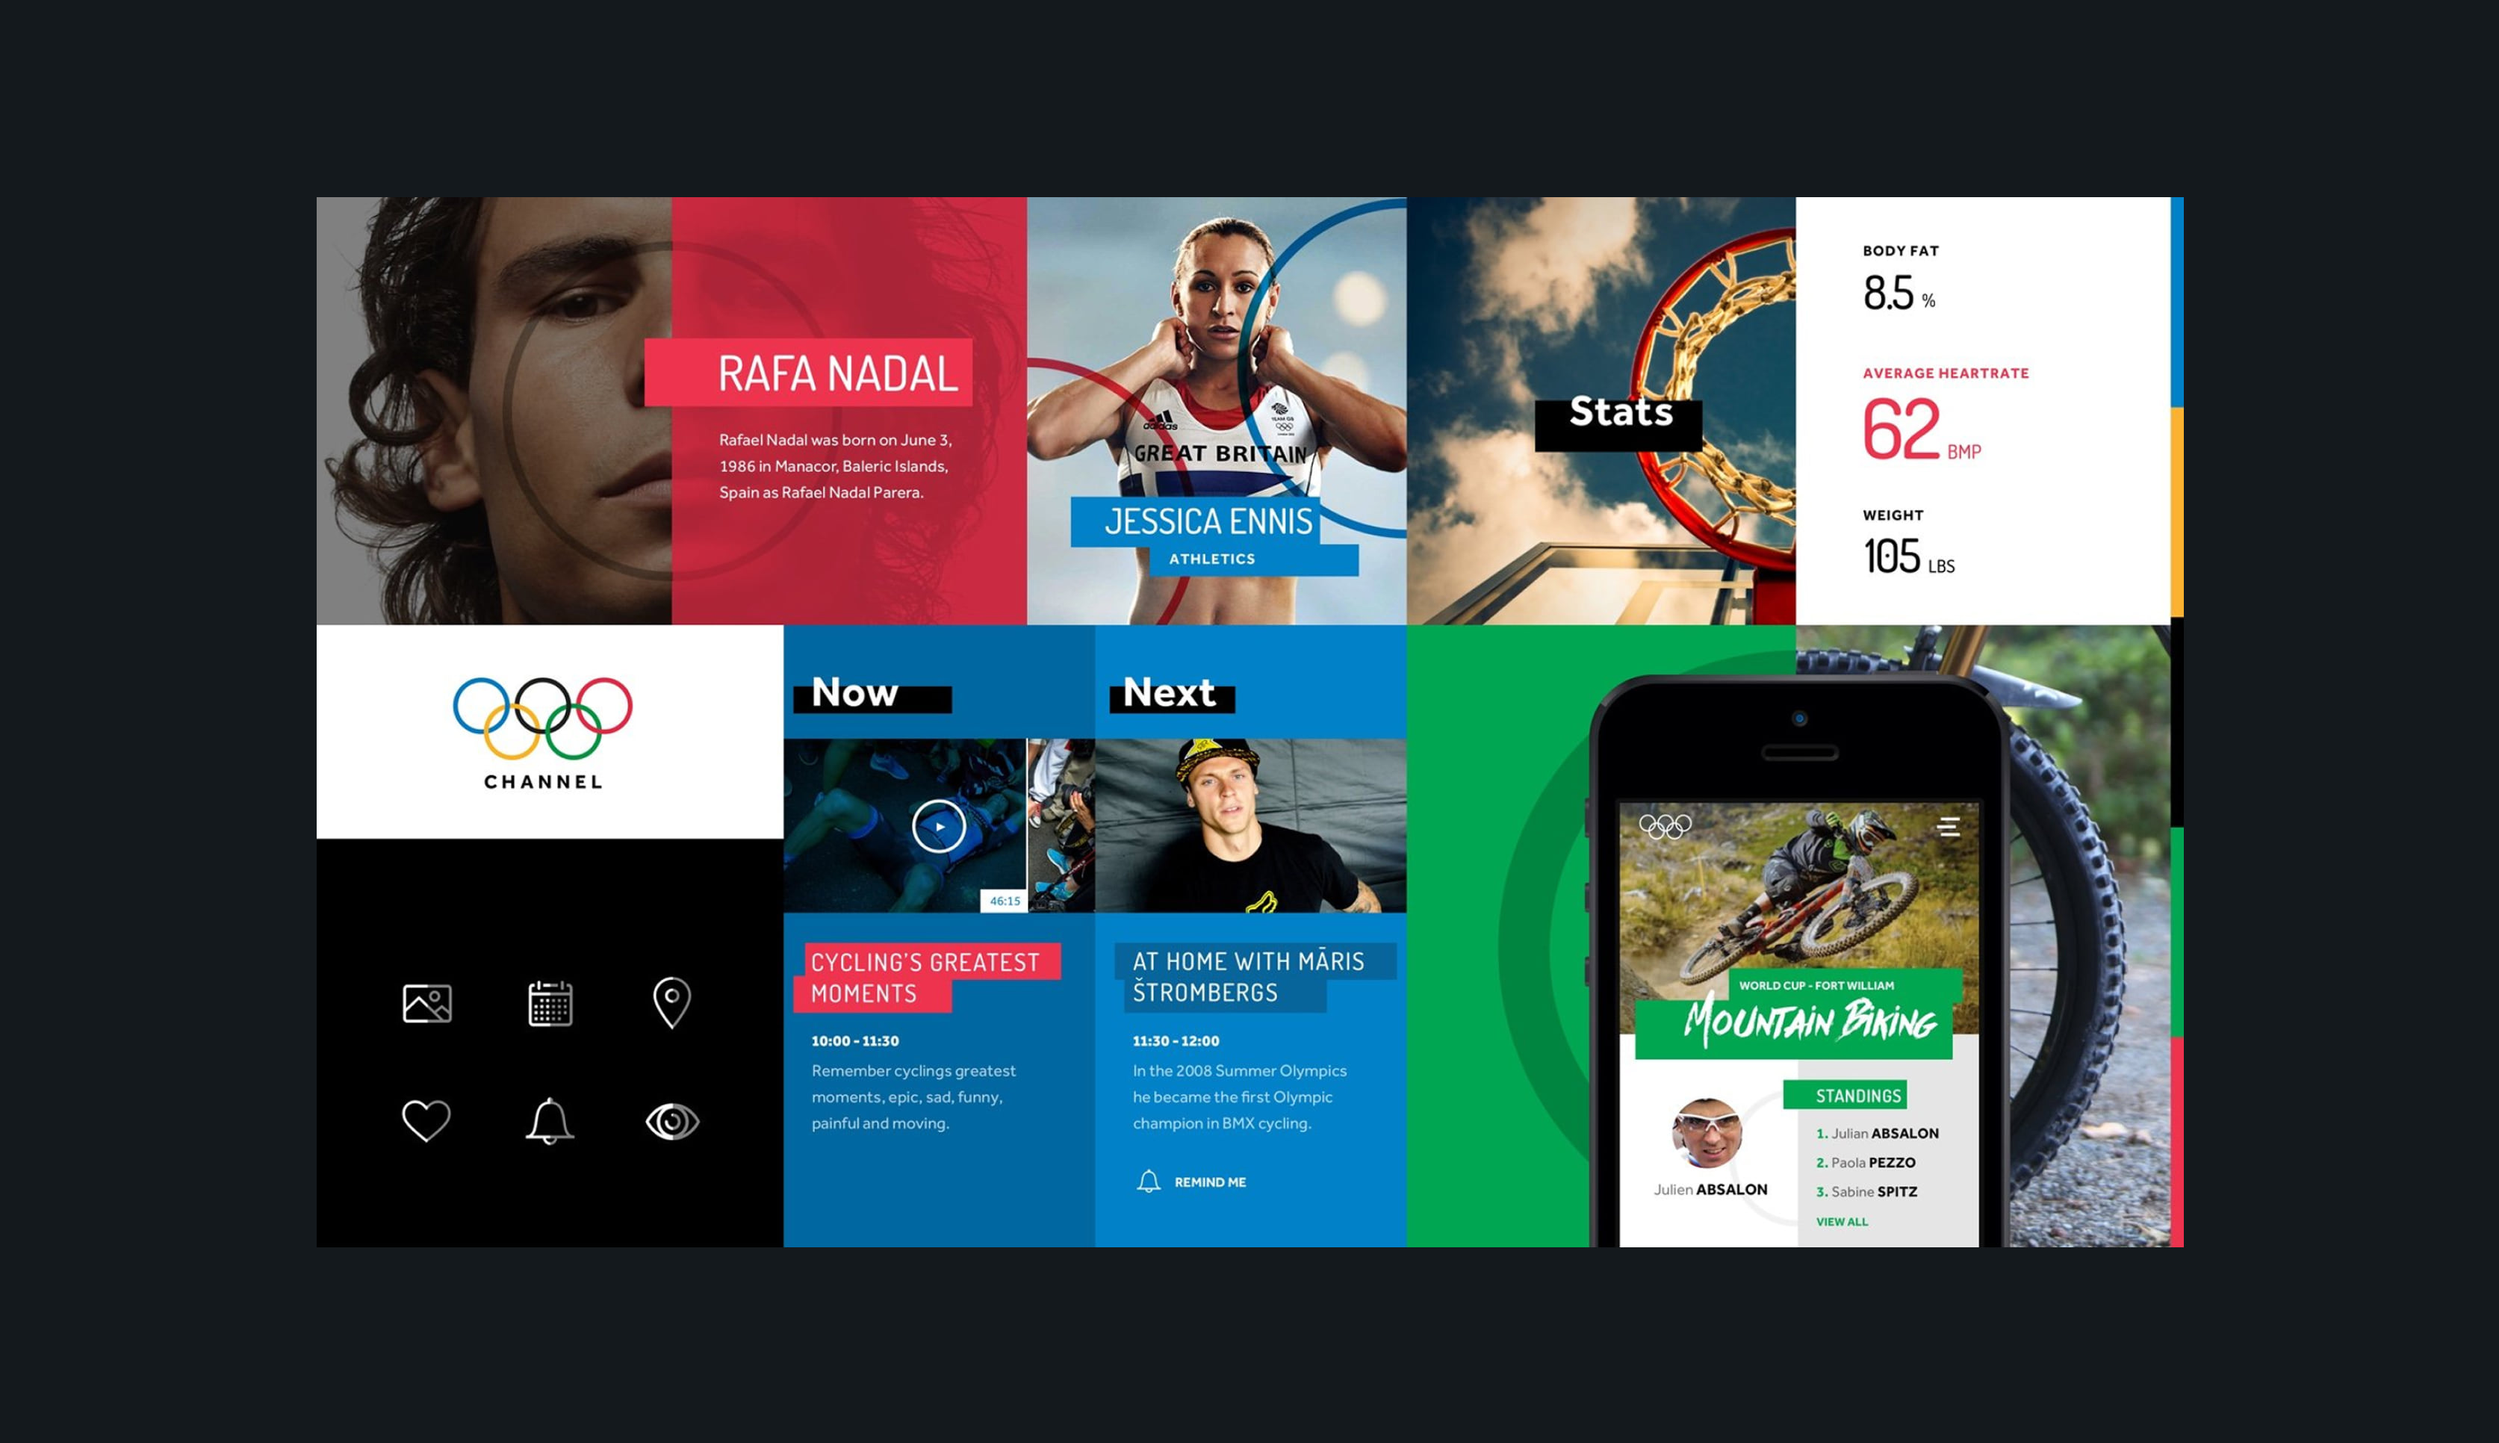
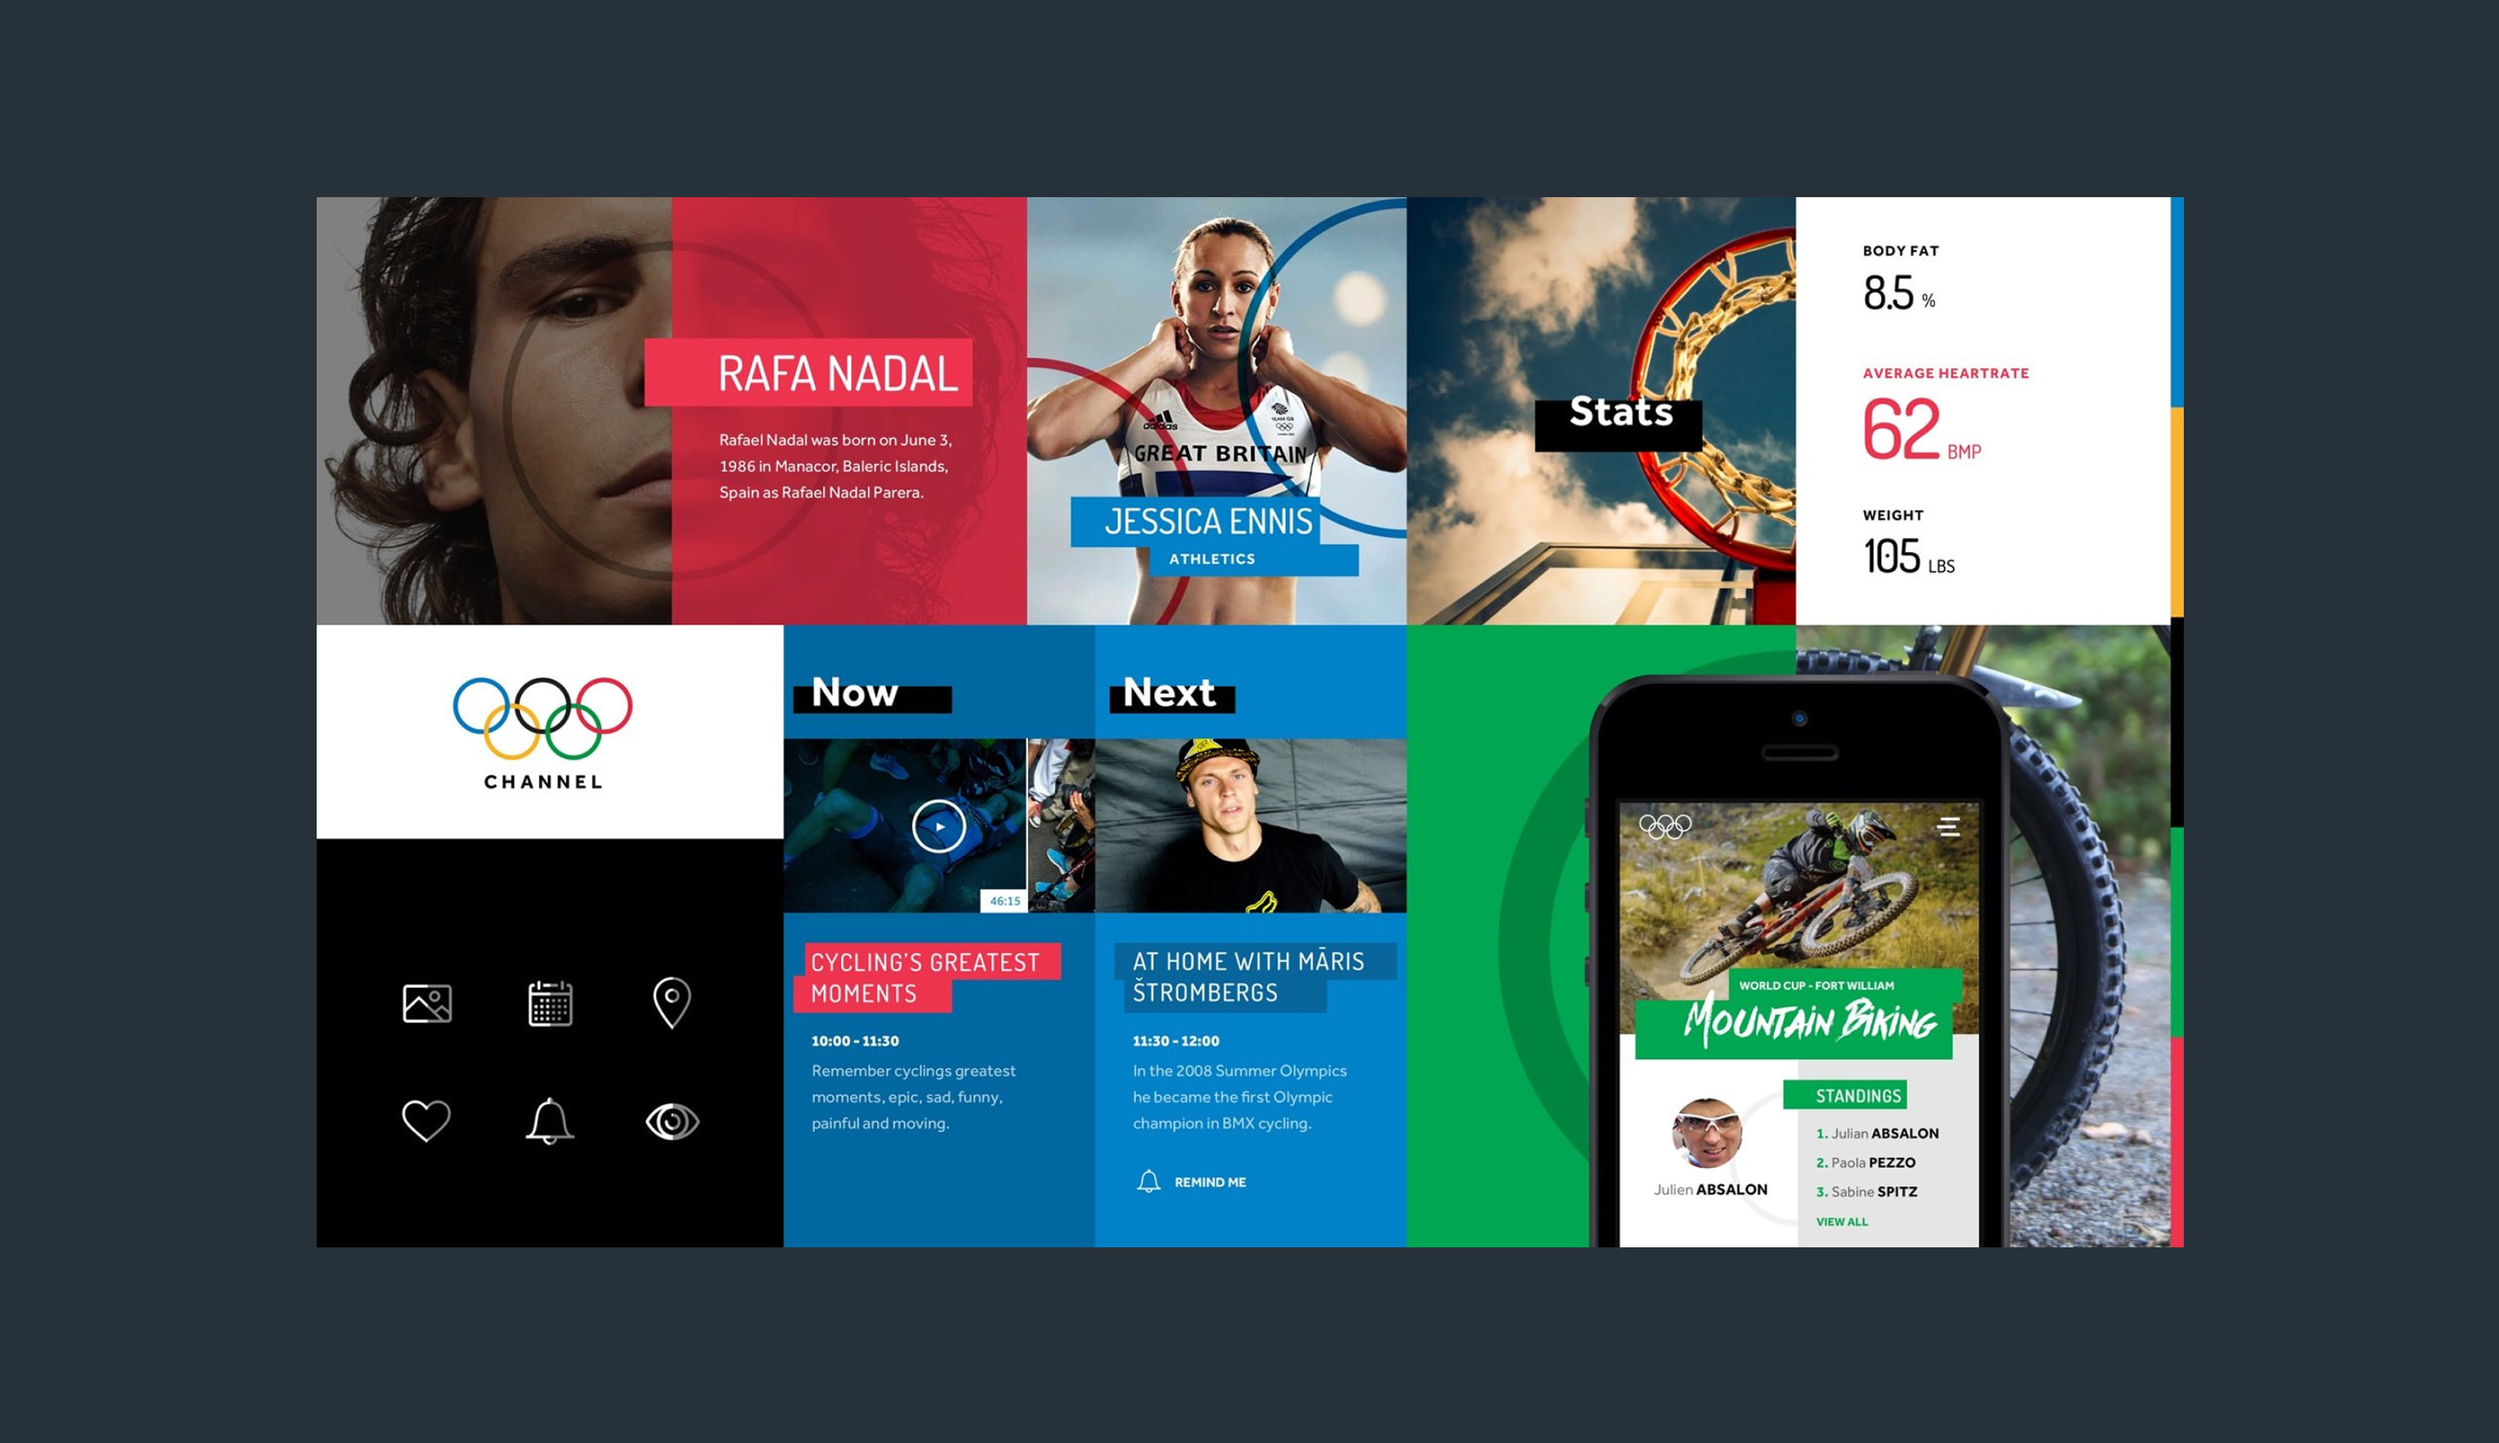
Archive: OBS Olympic slots — slot 16 new ground, new slot 17 (video player), later slots renumbered 18–28

diff --git a/site/archive.html b/site/archive.html
@@ -140,57 +140,60 @@
     <img class="media-img media-img--box-sm" style="--box-bg: #1b1b1b;" src="img/archive/15-1x.jpg" srcset="img/archive/15-1x.jpg 1673w, img/archive/15-2x.jpg 3346w"
          sizes="(max-width: 640px) calc(100vw - 32px), calc(100vw - 96px)" alt="Zen sneaker stories on mobile: Air Jordan 3 Retro and the history of the shoe" width="1673" height="966" loading="lazy" decoding="async">
     <!-- 16 -->
-    <img class="media-img media-img--box-sm" style="--box-bg: #14191d;" src="img/archive/16-1x.jpg" srcset="img/archive/16-1x.jpg 1673w, img/archive/16-2x.jpg 3346w"
+    <img class="media-img media-img--box-sm" style="--box-bg: #27313a;" src="img/archive/16-1x.jpg" srcset="img/archive/16-1x.jpg 1673w, img/archive/16-2x.jpg 3346w"
          sizes="(max-width: 640px) calc(100vw - 32px), calc(100vw - 96px)" alt="Olympic Channel brand board: athlete stories, now and next schedule, stats and a mountain biking app screen" width="1673" height="966" loading="lazy" decoding="async">
     <!-- 17 -->
+    <img class="media-img media-img--box-sm" style="--box-bg: #27313a;" src="img/archive/17-1x.jpg" srcset="img/archive/17-1x.jpg 1673w, img/archive/17-2x.jpg 3346w"
+         sizes="(max-width: 640px) calc(100vw - 32px), calc(100vw - 96px)" alt="Olympic Channel video player: live now, up next, with Mo Farah" width="1673" height="966" loading="lazy" decoding="async">
+    <!-- 18 -->
     <div class="media-pair">
-      <img class="media-img" src="img/archive/17a-1x.jpg" srcset="img/archive/17a-1x.jpg 821w, img/archive/17a-2x.jpg 1641w"
+      <img class="media-img" src="img/archive/18a-1x.jpg" srcset="img/archive/18a-1x.jpg 821w, img/archive/18a-2x.jpg 1641w"
            sizes="(max-width: 640px) calc(100vw - 32px), 47vw" alt="Olympic Channel video player icon set" width="821" height="700" loading="lazy" decoding="async">
-      <img class="media-img" src="img/archive/17b-1x.jpg" srcset="img/archive/17b-1x.jpg 821w, img/archive/17b-2x.jpg 1641w"
+      <img class="media-img" src="img/archive/18b-1x.jpg" srcset="img/archive/18b-1x.jpg 821w, img/archive/18b-2x.jpg 1641w"
            sizes="(max-width: 640px) calc(100vw - 32px), 47vw" alt="Olympic Channel: top athletes, with Zharnel Hughes" width="821" height="700" loading="lazy" decoding="async">
     </div>
-    <!-- 18 -->
-    <img class="media-img media-img--box-sm" style="--box-bg: #eeeeee;" src="img/archive/18-1x.jpg" srcset="img/archive/18-1x.jpg 1673w, img/archive/18-2x.jpg 3346w"
-         sizes="(max-width: 640px) calc(100vw - 32px), calc(100vw - 96px)" alt="Olympic Channel brand guidelines: grid, colour, typography and navigation" width="1673" height="966" loading="lazy" decoding="async">
     <!-- 19 -->
-    <img class="media-img media-img--box-sm" style="--box-bg: #272e34;" src="img/archive/19-1x.jpg" srcset="img/archive/19-1x.jpg 1673w, img/archive/19-2x.jpg 3346w"
-         sizes="(max-width: 640px) calc(100vw - 32px), calc(100vw - 96px)" alt="In Death game brand board: achievements and the statue, a monument to the player’s character" width="1673" height="966" loading="lazy" decoding="async">
+    <img class="media-img media-img--box-sm" style="--box-bg: #eeeeee;" src="img/archive/19-1x.jpg" srcset="img/archive/19-1x.jpg 1673w, img/archive/19-2x.jpg 3346w"
+         sizes="(max-width: 640px) calc(100vw - 32px), calc(100vw - 96px)" alt="Olympic Channel brand guidelines: grid, colour, typography and navigation" width="1673" height="966" loading="lazy" decoding="async">
     <!-- 20 -->
-    <img class="media-img media-img--box-sm" style="--box-bg: #eeeeee;" src="img/archive/20-1x.jpg" srcset="img/archive/20-1x.jpg 1673w, img/archive/20-2x.jpg 3346w"
-         sizes="(max-width: 640px) calc(100vw - 32px), calc(100vw - 96px)" alt="Service blueprint diagrams" width="1673" height="966" loading="lazy" decoding="async">
+    <img class="media-img media-img--box-sm" style="--box-bg: #272e34;" src="img/archive/20-1x.jpg" srcset="img/archive/20-1x.jpg 1673w, img/archive/20-2x.jpg 3346w"
+         sizes="(max-width: 640px) calc(100vw - 32px), calc(100vw - 96px)" alt="In Death game brand board: achievements and the statue, a monument to the player’s character" width="1673" height="966" loading="lazy" decoding="async">
     <!-- 21 -->
-    <img class="media-img media-img--fill-sm" src="img/archive/21-1x.jpg" srcset="img/archive/21-1x.jpg 1673w, img/archive/21-2x.jpg 3346w"
+    <img class="media-img media-img--box-sm" style="--box-bg: #eeeeee;" src="img/archive/21-1x.jpg" srcset="img/archive/21-1x.jpg 1673w, img/archive/21-2x.jpg 3346w"
+         sizes="(max-width: 640px) calc(100vw - 32px), calc(100vw - 96px)" alt="Service blueprint diagrams" width="1673" height="966" loading="lazy" decoding="async">
+    <!-- 22 -->
+    <img class="media-img media-img--fill-sm" src="img/archive/22-1x.jpg" srcset="img/archive/22-1x.jpg 1673w, img/archive/22-2x.jpg 3346w"
          sizes="(max-width: 640px) calc((100vw - 32px) * 1.48), calc(100vw - 96px)" alt="LEGO in-store QR campaign: social post, scanning codes in store, winning a LEGO City Taxi" width="1673" height="966" loading="lazy" decoding="async">
-    <!-- 22: HBO Mosaic scroll, Philip's own export (HhyoM5tJiy52bmaUAe7yVl6Vq4A.mp4, 1280 × 720, used as supplied),
+    <!-- 23: HBO Mosaic scroll, Philip's own export (HhyoM5tJiy52bmaUAe7yVl6Vq4A.mp4, 1280 × 720, used as supplied),
          placed as in Figma: 1283 × 741 at (195, 225), on the bottom edge. Keeps the desktop shape on phones too. -->
     <div class="layered" style="--ratio: 1673 / 966; --ratio-sm: 1673 / 966; --layer-bg: #424242; /* the video's ground as browsers render it (Figma shows it as #3A3A3A) */">
       <video class="layer layer--bottom" style="--cx: 50%; --w: 76.69%; aspect-ratio: 1283 / 741; object-fit: cover;" poster="img/archive/mosaic-poster.jpg" src="video/archive/mosaic.mp4" data-autoplay muted loop playsinline preload="none" aria-label="HBO Mosaic, by Steven Soderbergh: scrolling the website, from the title to the cast and sign-up"></video>
     </div>
-    <!-- 23 -->
+    <!-- 24 -->
     <div class="media-pair">
-      <img class="media-img" src="img/archive/23a-1x.jpg" srcset="img/archive/23a-1x.jpg 821w, img/archive/23a-2x.jpg 1641w"
+      <img class="media-img" src="img/archive/24a-1x.jpg" srcset="img/archive/24a-1x.jpg 821w, img/archive/24a-2x.jpg 1641w"
            sizes="(max-width: 640px) calc(100vw - 32px), 47vw" alt="HBO Mosaic: cast page" width="821" height="700" loading="lazy" decoding="async">
-      <img class="media-img" src="img/archive/23b-1x.jpg" srcset="img/archive/23b-1x.jpg 821w, img/archive/23b-2x.jpg 1641w"
+      <img class="media-img" src="img/archive/24b-1x.jpg" srcset="img/archive/24b-1x.jpg 821w, img/archive/24b-2x.jpg 1641w"
            sizes="(max-width: 640px) calc(100vw - 32px), 47vw" alt="HBO Mosaic: premieres November 1st" width="821" height="700" loading="lazy" decoding="async">
     </div>
-    <!-- 24 -->
-    <img class="media-img media-img--fill-sm" src="img/archive/24-1x.jpg" srcset="img/archive/24-1x.jpg 1673w, img/archive/24-2x.jpg 3346w"
-         sizes="(max-width: 640px) calc((100vw - 32px) * 1.48), calc(100vw - 96px)" alt="The Atlas of Digitalization: interactive report landing page" width="1673" height="966" loading="lazy" decoding="async">
     <!-- 25 -->
+    <img class="media-img media-img--fill-sm" src="img/archive/25-1x.jpg" srcset="img/archive/25-1x.jpg 1673w, img/archive/25-2x.jpg 3346w"
+         sizes="(max-width: 640px) calc((100vw - 32px) * 1.48), calc(100vw - 96px)" alt="The Atlas of Digitalization: interactive report landing page" width="1673" height="966" loading="lazy" decoding="async">
+    <!-- 26 -->
     <div class="media-pair">
-      <img class="media-img" src="img/archive/25a-1x.jpg" srcset="img/archive/25a-1x.jpg 821w, img/archive/25a-2x.jpg 1641w"
+      <img class="media-img" src="img/archive/26a-1x.jpg" srcset="img/archive/26a-1x.jpg 821w, img/archive/26a-2x.jpg 1641w"
            sizes="(max-width: 640px) calc(100vw - 32px), 47vw" alt="Digital experiment landscape diagram" width="821" height="700" loading="lazy" decoding="async">
-      <img class="media-img" src="img/archive/25b-1x.jpg" srcset="img/archive/25b-1x.jpg 821w, img/archive/25b-2x.jpg 1641w"
+      <img class="media-img" src="img/archive/26b-1x.jpg" srcset="img/archive/26b-1x.jpg 821w, img/archive/26b-2x.jpg 1641w"
            sizes="(max-width: 640px) calc(100vw - 32px), 47vw" alt="Experiment learning loop diagram: hypotheses, concepts and prototypes" width="821" height="700" loading="lazy" decoding="async">
     </div>
-    <!-- 26 -->
-    <img class="media-img media-img--fill-sm" src="img/archive/26-1x.jpg" srcset="img/archive/26-1x.jpg 1673w, img/archive/26-2x.jpg 3346w"
-         sizes="(max-width: 640px) calc((100vw - 32px) * 1.48), calc(100vw - 96px)" alt="Fortitude series page on a streaming service" width="1673" height="966" loading="lazy" decoding="async">
     <!-- 27 -->
+    <img class="media-img media-img--fill-sm" src="img/archive/27-1x.jpg" srcset="img/archive/27-1x.jpg 1673w, img/archive/27-2x.jpg 3346w"
+         sizes="(max-width: 640px) calc((100vw - 32px) * 1.48), calc(100vw - 96px)" alt="Fortitude series page on a streaming service" width="1673" height="966" loading="lazy" decoding="async">
+    <!-- 28 -->
     <div class="media-pair">
-      <img class="media-img" src="img/archive/27a-1x.jpg" srcset="img/archive/27a-1x.jpg 821w, img/archive/27a-2x.jpg 1641w"
+      <img class="media-img" src="img/archive/28a-1x.jpg" srcset="img/archive/28a-1x.jpg 821w, img/archive/28a-2x.jpg 1641w"
            sizes="(max-width: 640px) calc(100vw - 32px), 47vw" alt="BBC Store on iPhone: Attenborough’s Finest Moments" width="821" height="700" loading="lazy" decoding="async">
-      <img class="media-img" src="img/archive/27b-1x.jpg" srcset="img/archive/27b-1x.jpg 821w, img/archive/27b-2x.jpg 1641w"
+      <img class="media-img" src="img/archive/28b-1x.jpg" srcset="img/archive/28b-1x.jpg 821w, img/archive/28b-2x.jpg 1641w"
            sizes="(max-width: 640px) calc(100vw - 32px), 47vw" alt="BBC Store on iPad and iPhone" width="821" height="700" loading="lazy" decoding="async">
     </div>
   </section>
